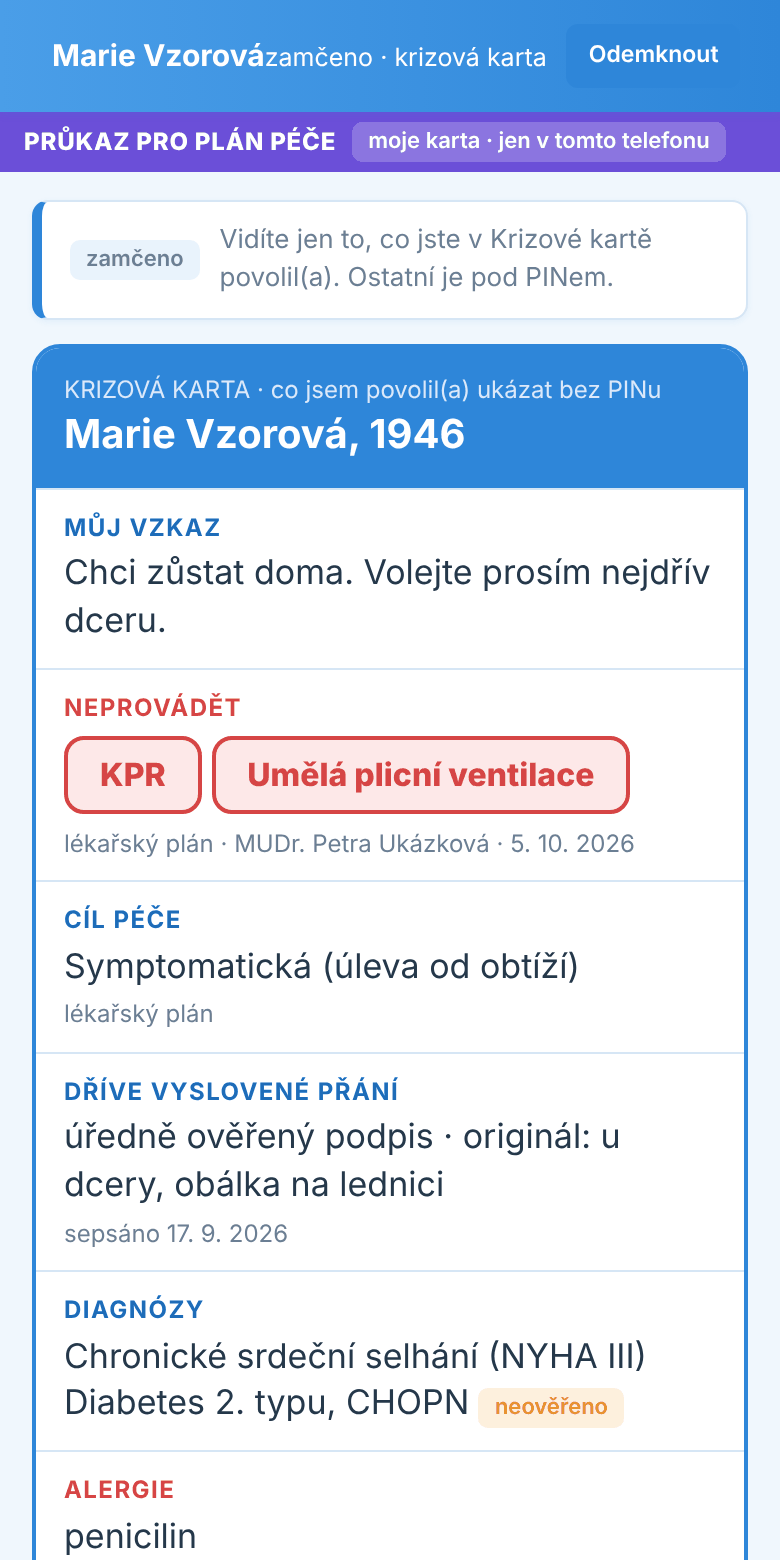
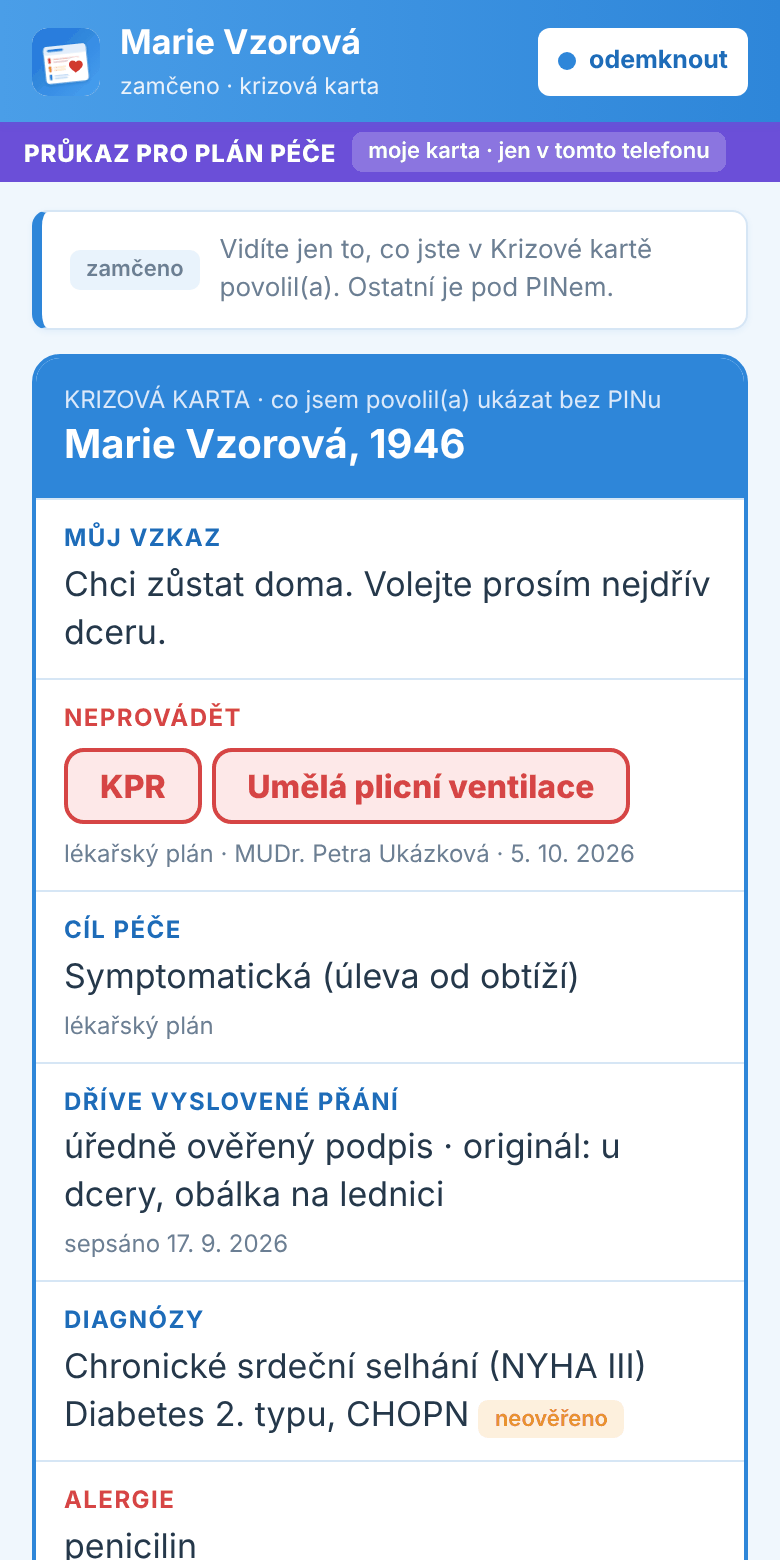
Průkaz pro plán péče: nápověda a vzhled v hlavičce (kap. 20), service worker
Claude-Session: https://claude.ai/code/session_01VcT9eaBqjfAENSa8MjpT1n

Changed region(s): [[0.0, 0.0, 1.0, 1.0], [0.5846, 0.7077, 0.7385, 0.7692], [0.7692, 0.7077, 0.8, 0.7385]]

diff --git a/public/prukaz/sw.js b/public/prukaz/sw.js
@@ -1,12 +1,12 @@
 /* Service worker aplikace Průkaz pro plán péče: aplikace běží bez signálu i bez serveru (data jsou v IndexedDB, žádné API). */
 const CACHE = 'kp-prukaz-0.1.0';
-const SHELL = ['/prukaz/', '/shared/kp.css', '/shared/kp.js', '/icons/icon.svg', '/icons/icon-192.png', '/prukaz/manifest.webmanifest'];
+const SHELL = ['/prukaz/', '/shared/kp.css', '/shared/kp.js', '/icons/icon.svg', '/icons/icon-192.png', '/prukaz/manifest.webmanifest', '/shared/kp-napoveda.js', '/api/napoveda'];
 
 self.addEventListener('install', (e) => { e.waitUntil(caches.open(CACHE).then((c) => c.addAll(SHELL)).then(() => self.skipWaiting())); });
 self.addEventListener('activate', (e) => { e.waitUntil(caches.keys().then((k) => Promise.all(k.filter((x) => x.startsWith('kp-prukaz-') && x !== CACHE).map((x) => caches.delete(x)))).then(() => self.clients.claim())); });
 self.addEventListener('fetch', (e) => {
   const u = new URL(e.request.url);
-  if (e.request.method !== 'GET' || u.origin !== location.origin || u.pathname.startsWith('/api/')) return;
+  if (e.request.method !== 'GET' || u.origin !== location.origin || (u.pathname.startsWith('/api/') && u.pathname !== '/api/napoveda')) return;
   // síť první (aby se aktualizace projevila), bez sítě z cache
   e.respondWith(fetch(e.request).then((r) => { if (r.ok) { const c = r.clone(); caches.open(CACHE).then((x) => x.put(e.request, c)); } return r; }).catch(() => caches.match(e.request, { ignoreSearch: true }).then((r) => r || caches.match('/prukaz/'))));
 });

diff --git a/public/prukaz/index.html b/public/prukaz/index.html
@@ -61,6 +61,7 @@
 <div id="tisk"></div>
 <div id="modal"></div><div id="toast" class="toast" hidden></div>
 <script src="/shared/kp.js"></script>
+<script src="/shared/kp-napoveda.js"></script>
 <script>
 /*
  * Průkaz pro plán péče – prototyp pacientem řízené karty (zadání MUDr. Kabelky, verze 0.1, 27. 10. 2026).
@@ -503,6 +504,7 @@ function bind() {
 setInterval(() => { if (D && !zamceno && !ukazka && Date.now() - posledniAktivita > 5 * 60e3) { zamceno = true; closeModal(); render(); } }, 15e3);
 
 /* ---------------- start ---------------- */
+KP.napoveda.nastav({ aplikace: 'pacient', kapitola: 20, obrazovka: () => ({ prehled: 'Přehled', zdravi: 'Zdraví a dokumenty', hodnoty: 'Co je pro mě důležité', rozhovor: 'Rozhovor s lékařem', budouci: 'Budoucí péče', krize: 'Krizová karta', sdilet: 'Sdílet a exportovat', bezpecnost: 'Bezpečnost a obnova' })[tab] || 'Průkaz', fab: false });
 (async () => {
   if ('serviceWorker' in navigator) navigator.serviceWorker.register('/prukaz/sw.js').catch(() => {});
   if (new URLSearchParams(location.search).get('ukazka')) { D = ukazkovaKarta(); ukazka = true; zamceno = new URLSearchParams(location.search).get('ukazka') === 'zamek'; tab = new URLSearchParams(location.search).get('tab') || 'prehled'; render(); return; }
